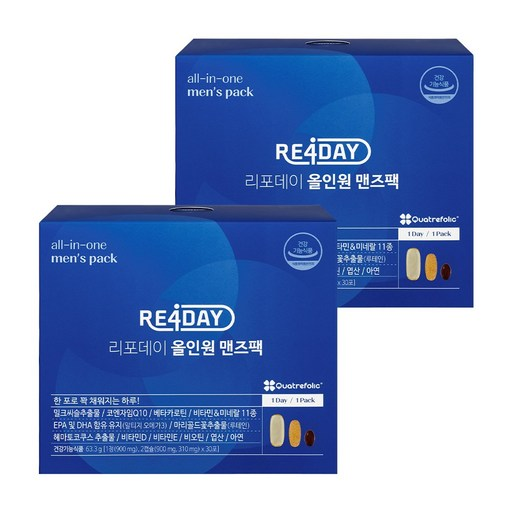
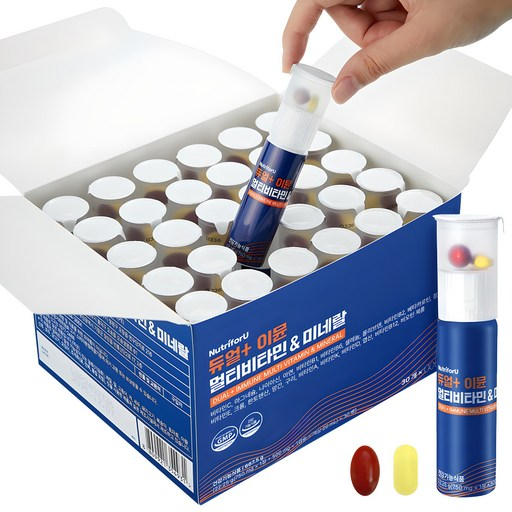
Add new landing page: 영양제

diff --git a/src/app/yeongyangje/page.tsx b/src/app/yeongyangje/page.tsx
@@ -1,24 +1,24 @@
 import { Metadata } from "next";
 
 export const metadata: Metadata = {
-  title: "리포데이 올인원 맨즈팩 22종 종합비타민 솔직 후기: 남성 활력, 이젠 한 팩으로!",
-  description: "리포데이 올인원 맨즈팩, 남성 활력을 위한 22종 종합 비타민 솔직 사용 후기! 바쁜 일상 속 간편하게 챙기는 건강 루틴, 과연 효과는? 직접 먹어보고 느낀 장단점과 구매 팁을 공유합니다.",
-  keywords: ["리포데이 올인원 맨즈팩", "남성 종합비타민", "22종 비타민", "남성 영양제", "활력 비타민", "리포데이", "쿠팡 로켓배송", "영양제"],
+  title: "솔직 후기: 뉴트리포유 듀얼 이뮨 멀티 비타민 미네랄, 한 달 복용해보니?",
+  description: "뉴트리포유 듀얼 이뮨 멀티 비타민 미네랄 한 달 복용 솔직 후기! 바쁜 일상 속 활력을 찾고 싶다면 주목하세요. 실제 사용 경험 바탕으로 장단점, 섭취 후 변화까지 자세히 알려드립니다.",
+  keywords: ["뉴트리포유", "듀얼 이뮨", "멀티 비타민", "미네랄", "종합 비타민", "영양제 추천", "피로회복", "면역력", "이중 기능성", "건강기능식품", "영양제"],
   robots: { index: true, follow: true },
   alternates: { canonical: "https://www.dmcmusic.co.kr/yeongyangje" },
   openGraph: {
     type: "article",
     locale: "ko_KR",
-    siteName: "리포데이 올인원 맨즈팩 남성용 22종 종합비타민, 2박스",
-    title: "리포데이 올인원 맨즈팩 22종 종합비타민 솔직 후기: 남성 활력, 이젠 한 팩으로!",
-    description: "리포데이 올인원 맨즈팩, 남성 활력을 위한 22종 종합 비타민 솔직 사용 후기! 바쁜 일상 속 간편하게 챙기는 건강 루틴, 과연 효과는? 직접 먹어보고 느낀 장단점과 구매 팁을 공유합니다.",
+    siteName: "뉴트리포유 듀얼 이뮨 멀티 비타민 미네랄",
+    title: "솔직 후기: 뉴트리포유 듀얼 이뮨 멀티 비타민 미네랄, 한 달 복용해보니?",
+    description: "뉴트리포유 듀얼 이뮨 멀티 비타민 미네랄 한 달 복용 솔직 후기! 바쁜 일상 속 활력을 찾고 싶다면 주목하세요. 실제 사용 경험 바탕으로 장단점, 섭취 후 변화까지 자세히 알려드립니다.",
     url: "https://www.dmcmusic.co.kr/yeongyangje",
     images: [{ url: "https://www.dmcmusic.co.kr/images/coupang/yeongyangje/product.jpg" }],
   },
   twitter: {
     card: "summary_large_image",
-    title: "리포데이 올인원 맨즈팩 22종 종합비타민 솔직 후기: 남성 활력, 이젠 한 팩으로!",
-    description: "리포데이 올인원 맨즈팩, 남성 활력을 위한 22종 종합 비타민 솔직 사용 후기! 바쁜 일상 속 간편하게 챙기는 건강 루틴, 과연 효과는? 직접 먹어보고 느낀 장단점과 구매 팁을 공유합니다.",
+    title: "솔직 후기: 뉴트리포유 듀얼 이뮨 멀티 비타민 미네랄, 한 달 복용해보니?",
+    description: "뉴트리포유 듀얼 이뮨 멀티 비타민 미네랄 한 달 복용 솔직 후기! 바쁜 일상 속 활력을 찾고 싶다면 주목하세요. 실제 사용 경험 바탕으로 장단점, 섭취 후 변화까지 자세히 알려드립니다.",
     images: ["https://www.dmcmusic.co.kr/images/coupang/yeongyangje/product.jpg"],
   },
 };
@@ -28,38 +28,38 @@ const jsonLd = {
   "@graph": [
     {
       "@type": "Product",
-      "name": "리포데이 올인원 맨즈팩 남성용 22종 종합비타민, 2박스",
+      "name": "뉴트리포유 듀얼 이뮨 멀티 비타민 미네랄",
       "image": "https://www.dmcmusic.co.kr/images/coupang/yeongyangje/product.jpg",
-      "description": "리포데이 올인원 맨즈팩, 남성 활력을 위한 22종 종합 비타민 솔직 사용 후기! 바쁜 일상 속 간편하게 챙기는 건강 루틴, 과연 효과는? 직접 먹어보고 느낀 장단점과 구매 팁을 공유합니다.",
+      "description": "뉴트리포유 듀얼 이뮨 멀티 비타민 미네랄 한 달 복용 솔직 후기! 바쁜 일상 속 활력을 찾고 싶다면 주목하세요. 실제 사용 경험 바탕으로 장단점, 섭취 후 변화까지 자세히 알려드립니다.",
       "offers": {
         "@type": "Offer",
-        "price": 163000,
+        "price": 51900,
         "priceCurrency": "KRW",
         "availability": "https://schema.org/InStock",
-        "url": "https://link.coupang.com/re/AFFSDP?lptag=AF4771282&pageKey=6825413636&itemId=28007293075&vendorItemId=87796065773&traceid=V0-153-fe11792aec72803b&clickBeacon=2f23c160-6ee3-11f1-aa8d-69c412651e7e%7E3&requestid=20260623180905244242219329&token=31850C%7CMIXED"
+        "url": "https://link.coupang.com/re/AFFSDP?lptag=AF4771282&pageKey=8205021216&itemId=23532442760&vendorItemId=90788386304&traceid=V0-153-70746f682c296f69&requestid=20260623181428377231172883&token=31850C%7CMIXED"
       }
     },
     {
       "@type": "Review",
       "itemReviewed": {
         "@type": "Product",
-        "name": "리포데이 올인원 맨즈팩 남성용 22종 종합비타민, 2박스"
+        "name": "뉴트리포유 듀얼 이뮨 멀티 비타민 미네랄"
       },
       "reviewRating": {
         "@type": "Rating",
-        "ratingValue": 4.5,
+        "ratingValue": 4.3,
         "bestRating": 5
       },
       "author": {
         "@type": "Person",
         "name": "실사용 리뷰어"
       },
-      "reviewBody": "리포데이 올인원 맨즈팩은 바쁜 현대 남성들에게 강력히 추천할 만한 제품입니다. 개인적으로 꾸준히 섭취하며 몸의 긍정적인 변화를 느꼈고, 무엇보다 간편함이 가장 큰 장점이라고 생각합니다. 가격대가 다소 있지만, 그만큼 다양한 영양소를 한 번에 챙길 수 있다는 점에서 충분히 투자할 가치가 있다고 봅니다. 여러분도 리포데이 맨즈팩으로 활기찬 하루를 시작해 보세요!"
+      "reviewBody": "뉴트리포유 듀얼 이뮨 멀티 비타민 미네랄은 저에게 꾸준히 섭취할 가치가 있는 영양제였습니다. 단숨에 몸이 바뀌는 마법 같은 효과는 아니지만, 꾸준한 섭취를 통해 전반적인 활력과 면역력 관리에 도움을 주어 만족스러웠어요. 건강한 생활 습관과 병행한다면 더욱 시너지를 낼 수 있을 거라 생각합니다. 재구매 의사 있습니다!"
     }
   ]
 };
 const pageStyles = ":root {\n  --bg: #faf8f4;\n  --card: #ffffff;\n  --text: #1c1917;\n  --muted: #78716c;\n  --accent: #e23744;\n  --accent-dark: #c62828;\n  --border: #e8dfd4;\n  --pro: #15803d;\n  --con: #b45309;\n}\n.coupang-review-root { box-sizing: border-box; }\n.coupang-review-root * { box-sizing: border-box; }\n.coupang-review-root {\n  font-family: \"Noto Sans KR\", sans-serif;\n  background: var(--bg);\n  color: var(--text);\n  line-height: 1.7;\n  padding-bottom: 5rem;\n  min-height: 100vh;\n}\n.partner-notice {\n  background: #fff8e6;\n  border-bottom: 1px solid #f0e0b0;\n  color: #6b5a2a;\n  font-size: 0.82rem;\n  text-align: center;\n  padding: 0.7rem 1rem;\n  line-height: 1.5;\n}\n.coupang-review-root .container { max-width: 760px; margin: 0 auto; padding: 1.25rem; }\n.coupang-review-root .hero {\n  background: var(--card);\n  border: 1px solid var(--border);\n  border-radius: 16px;\n  overflow: hidden;\n  box-shadow: 0 8px 30px rgba(0,0,0,.06);\n}\n.coupang-review-root .hero-img {\n  width: 100%;\n  aspect-ratio: 1;\n  object-fit: contain;\n  background: #fff;\n  display: block;\n}\n.coupang-review-root .hero-body { padding: 1.5rem; }\n.coupang-review-root .eyebrow {\n  font-size: .75rem;\n  letter-spacing: .08em;\n  text-transform: uppercase;\n  color: var(--muted);\n  margin-bottom: .5rem;\n}\n.coupang-review-root h1 {\n  font-size: 1.5rem;\n  line-height: 1.35;\n  margin: 0 0 .75rem;\n  font-weight: 700;\n}\n.coupang-review-root .price { font-size: 1.25rem; font-weight: 700; color: var(--accent); margin-bottom: .75rem; }\n.coupang-review-root .badges { display: flex; gap: .5rem; flex-wrap: wrap; margin-bottom: 1rem; }\n.coupang-review-root .badge {\n  font-size: .75rem;\n  padding: .25rem .6rem;\n  border-radius: 999px;\n  background: #fff5f5;\n  color: var(--accent);\n  border: 1px solid #fecaca;\n}\n.coupang-review-root .rating {\n  display: flex;\n  align-items: center;\n  gap: .5rem;\n  color: #f59e0b;\n  font-weight: 600;\n  margin-bottom: 1rem;\n}\n.coupang-review-root .lead { color: var(--muted); font-size: 1rem; }\n.coupang-review-root .cta {\n  display: inline-flex;\n  align-items: center;\n  justify-content: center;\n  width: 100%;\n  margin-top: 1rem;\n  padding: .95rem 1.25rem;\n  border-radius: 12px;\n  background: var(--accent);\n  color: #fff;\n  font-weight: 700;\n  text-decoration: none;\n  transition: background .2s;\n}\n.coupang-review-root .cta:hover { background: var(--accent-dark); }\n.coupang-review-root section {\n  margin-top: 1.5rem;\n  background: var(--card);\n  border: 1px solid var(--border);\n  border-radius: 16px;\n  padding: 1.5rem;\n}\n.coupang-review-root h2 { font-size: 1.15rem; margin: 0 0 1rem; }\n.coupang-review-root p { margin: 0 0 1rem; }\n.coupang-review-root p:last-child { margin-bottom: 0; }\n.coupang-review-root .pros-cons { display: grid; gap: 1rem; }\n@media (min-width: 640px) { .coupang-review-root .pros-cons { grid-template-columns: 1fr 1fr; } }\n.coupang-review-root .pros h3 { color: var(--pro); }\n.coupang-review-root .cons h3 { color: var(--con); }\n.coupang-review-root ul { margin: 0; padding-left: 1.1rem; }\n.coupang-review-root li { margin-bottom: .4rem; }\n.coupang-review-root .faq-item {\n  border-top: 1px solid var(--border);\n  padding: .9rem 0;\n}\n.coupang-review-root .faq-item summary {\n  cursor: pointer;\n  font-weight: 600;\n  list-style: none;\n}\n.coupang-review-root .faq-item summary::-webkit-details-marker { display: none; }\n.coupang-review-root .float-bar {\n  position: fixed;\n  left: 0; right: 0; bottom: 0;\n  background: rgba(255,255,255,.96);\n  border-top: 1px solid var(--border);\n  backdrop-filter: blur(8px);\n  padding: .75rem 1rem calc(.75rem + env(safe-area-inset-bottom));\n  z-index: 50;\n}\n.coupang-review-root .float-bar a {\n  display: block;\n  text-align: center;\n  background: var(--accent);\n  color: #fff;\n  text-decoration: none;\n  font-weight: 700;\n  padding: .9rem;\n  border-radius: 12px;\n}";
-const pageHtml = "<div class=\"coupang-review-root\">\n  <p class=\"partner-notice\">\n    \uc774 \ud3ec\uc2a4\ud305\uc740 \ucfe0\ud321 \ud30c\ud2b8\ub108\uc2a4 \ud65c\ub3d9\uc758 \uc77c\ud658\uc73c\ub85c, \uc774\uc5d0 \ub530\ub978 \uc77c\uc815\uc561\uc758 \uc218\uc218\ub8cc\ub97c \uc81c\uacf5\ubc1b\uc2b5\ub2c8\ub2e4.\n  </p>\n  <div class=\"container\">\n    <article class=\"hero\">\n      <img class=\"hero-img\" src=\"/images/coupang/yeongyangje/product.jpg\" alt=\"\ub9ac\ud3ec\ub370\uc774 \uc62c\uc778\uc6d0 \ub9e8\uc988\ud329 \ub0a8\uc131\uc6a9 22\uc885 \uc885\ud569\ube44\ud0c0\ubbfc, 2\ubc15\uc2a4\" loading=\"eager\" />\n      <div class=\"hero-body\">\n        <p class=\"eyebrow\">\uc2e4\uc0ac\uc6a9 \ud6c4\uae30 \u00b7 2026</p>\n        <h1>\ub9ac\ud3ec\ub370\uc774 \uc62c\uc778\uc6d0 \ub9e8\uc988\ud329 \ub0a8\uc131\uc6a9 22\uc885 \uc885\ud569\ube44\ud0c0\ubbfc, 2\ubc15\uc2a4 \uc194\uc9c1 \uc0ac\uc6a9 \ud6c4\uae30</h1>\n        <p class=\"price\">163,000\uc6d0</p>\n        <div class=\"badges\"><span class=\"badge\">\ub85c\ucf13\ubc30\uc1a1</span></div>\n        <div class=\"rating\"><span>\u2605\u2605\u2605\u2605\u2606</span><span>4.5</span><span>\ubc14\uc05c \ub0a8\uc131\ub4e4\uc744 \uc704\ud55c \uac04\ud3b8\ud558\uace0 \ud6a8\uacfc\uc801\uc778 \uc62c\uc778\uc6d0 \uc885\ud569\ube44\ud0c0\ubbfc!</span></div>\n        <p class=\"lead\">\ubc14\uc05c \ud604\ub300 \ub0a8\uc131\ub4e4\uc5d0\uac8c &#x27;\uc601\uc591\uc81c \ucc59\uaca8 \uba39\uae30&#x27;\ub780 \ub610 \ud558\ub098\uc758 \uc219\uc81c \uac19\uc8e0? \uc800 \uc5ed\uc2dc \uadf8\ub7ac\uc2b5\ub2c8\ub2e4. \uadf8\ub7ec\ub2e4 \uc6b0\uc5f0\ud788 &#x27;\ub9ac\ud3ec\ub370\uc774 \uc62c\uc778\uc6d0 \ub9e8\uc988\ud329&#x27;\uc744 \uc811\ud558\uac8c \ub418\uc5c8\uace0, \uc57d \ud55c \ub2ec\uac04 \uafb8\uc900\ud788 \uc12d\ucde8\ud558\uba70 \ubab8\uc758 \ubcc0\ud654\ub97c \uc9c1\uc811 \uacbd\ud5d8\ud574 \ubcf4\uc558\uc2b5\ub2c8\ub2e4. \uacfc\uc5f0 \uc774 \ud55c \ud329\uc774 \uc815\ub9d0 \ub0a8\uc131\uc5d0\uac8c \ud544\uc694\ud55c \ubaa8\ub4e0 \uac83\uc744 \ub2f4\uace0 \uc788\uc744\uae4c\uc694?</p>\n        <a class=\"cta\" href=\"https://link.coupang.com/re/AFFSDP?lptag=AF4771282&amp;pageKey=6825413636&amp;itemId=28007293075&amp;vendorItemId=87796065773&amp;traceid=V0-153-fe11792aec72803b&amp;clickBeacon=2f23c160-6ee3-11f1-aa8d-69c412651e7e%7E3&amp;requestid=20260623180905244242219329&amp;token=31850C%7CMIXED\" target=\"_blank\" rel=\"noopener noreferrer sponsored\">\ucfe0\ud321\uc5d0\uc11c \ucd5c\uc800\uac00 \ud655\uc778\ud558\uae30</a>\n      </div>\n    </article>\n    <section><h2>\uc0c1\ud488 \uc18c\uac1c</h2><p>\ub298 \ud53c\uace4\ud558\uace0 \ubb34\uae30\ub825\ud568\uc744 \ub290\ub07c\ub358 \ucc28\uc5d0, \uc8fc\ubcc0\uc5d0\uc11c \ub0a8\uc131 \uc885\ud569\ube44\ud0c0\ubbfc\uc744 \ucd94\ucc9c\ud558\ub354\uad70\uc694. \uc5ec\ub7ec \uc81c\ud488\uc744 \ucc3e\uc544\ubcf4\ub2e4\uac00 &#x27;\ub9ac\ud3ec\ub370\uc774 \uc62c\uc778\uc6d0 \ub9e8\uc988\ud329&#x27;\uc774 22\uac00\uc9c0 \uc601\uc591\uc18c\ub97c \ud55c \ubc88\uc5d0 \uc12d\ucde8\ud560 \uc218 \uc788\ub2e4\ub294 \uc810\uacfc \uac04\ud3b8\ud55c \uac1c\ubcc4 \ud3ec\uc7a5\uc774\ub77c\ub294 \uc810\uc5d0 \ub04c\ub824 \uad6c\ub9e4\ud558\uac8c \ub418\uc5c8\uc2b5\ub2c8\ub2e4. \ud2b9\ud788 \ucfe0\ud321 \ub85c\ucf13\ubc30\uc1a1\uc73c\ub85c \ub2e4\uc74c \ub0a0 \ubc14\ub85c \ubc1b\uc744 \uc218 \uc788\uc5c8\ub358 \uc810\ub3c4 \uc88b\uc558\uace0\uc694. \uc9c0\uae08\ubd80\ud130 \uc81c\uac00 \uc9c1\uc811 \uc0ac\uc6a9\ud574 \ubcf8 \ub9ac\ud3ec\ub370\uc774 \ub9e8\uc988\ud329\uc758 \uc194\uc9c1\ud55c \ud6c4\uae30\ub97c \uacf5\uc720\ud574 \ub4dc\ub9b4\uac8c\uc694.</p></section>\n    <section><h2>\uc9c1\uc811 \uc368 \ubcf8 \uc0ac\uc6a9 \uacbd\ud5d8</h2><p>\uc800\ub294 \ub9e4\uc77c \uc544\uce68 \uc2dd\uc0ac \ud6c4 \ub9ac\ud3ec\ub370\uc774 \uc62c\uc778\uc6d0 \ub9e8\uc988\ud329 \ud55c \ud3ec\ub97c \uc12d\ucde8\ud588\uc2b5\ub2c8\ub2e4. \ucc98\uc74c \uba70\uce60\uc740 \ud070 \ubcc0\ud654\ub97c \ub290\ub07c\uc9c0 \ubabb\ud588\uc9c0\ub9cc, 2\uc8fc \uc815\ub3c4 \uc9c0\ub098\ub2c8 \uc544\uce68\uc5d0 \uc77c\uc5b4\ub098\ub294 \uac83\uc774 \uc870\uae08 \ub354 \uc218\uc6d4\ud574\uc9c0\uace0, \uc624\ud6c4\uc5d0 \ucc3e\uc544\uc624\ub358 \uadf9\uc2ec\ud55c \ud53c\ub85c\uac10\uc774 \uc904\uc5b4\ub4dc\ub294 \uac83\uc744 \uccb4\uac10\ud588\uc2b5\ub2c8\ub2e4. \ud2b9\ud788 \uc804\uc5d0\ub294 \ub530\ub85c\ub530\ub85c \ucc59\uaca8 \uba39\ub358 \ube44\ud0c0\ubbfcD, \uc544\uc5f0, \ub9c8\uadf8\ub124\uc298 \ub4f1\uc744 \ud55c \ubc88\uc5d0 \ud574\uacb0\ud560 \uc218 \uc788\ub2e4\ub294 \uc810\uc774 \uac00\uc7a5 \ud070 \uc7a5\uc810\uc73c\ub85c \ub2e4\uac00\uc654\uc2b5\ub2c8\ub2e4. \ud68c\uc2dd\uc774\ub098 \uc57c\uadfc\uc73c\ub85c \ubd88\uaddc\uce59\ud55c \uc0dd\ud65c\uc744 \ud560 \ub54c\ub3c4 \ube7c\uba39\uc9c0 \uc54a\uace0 \ucc59\uae38 \uc218 \uc788\uc5b4\uc11c \uc88b\uc558\uc5b4\uc694. \ub2e4\ub9cc, \uc57d\uc744 \ud55c \ubc88\uc5d0 \uc5ec\ub7ec \uc54c \uba39\ub294 \uac83\uc5d0 \uc775\uc219\ud558\uc9c0 \uc54a\uc740 \ubd84\ub4e4\uc740 \ucc98\uc74c\uc5d0\ub294 \uc870\uae08 \ubd88\ud3b8\ud560 \uc218\ub3c4 \uc788\uc744 \uac83 \uac19\uc544\uc694.</p></section>\n    <section class=\"pros-cons\">\n      <div class=\"pros\"><h3>\ud83d\udc4d \uc7a5\uc810</h3><ul><li>\uac1c\ubcc4 \ud3ec\uc7a5\uc774\ub77c \ud734\ub300\uc640 \uc12d\ucde8\uac00 \uc815\ub9d0 \uac04\ud3b8\ud574\uc694. \ub9e4\uc77c \uc544\uce68 \ud558\ub098\uc529 \ucc59\uae30\uae30 \uc88b\uc2b5\ub2c8\ub2e4.</li>\n<li>22\uac00\uc9c0 \ub2e4\uc591\ud55c \uc601\uc591\uc18c\ub97c \ud55c \ubc88\uc5d0 \uc12d\ucde8\ud560 \uc218 \uc788\uc5b4 \uc5ec\ub7ec \uc54c \uba39\uc744 \ud544\uc694\uac00 \uc5c6\uc5b4\uc694.</li>\n<li>\uafb8\uc900\ud788 \uba39\uc73c\ub2c8 \ud655\uc2e4\ud788 \ud65c\ub825\uc774 \uc0dd\uae30\uace0 \ub35c \ud53c\uace4\ud55c \ub290\ub08c\uc774 \ub4e4\uc5c8\uc2b5\ub2c8\ub2e4.</li>\n<li>\ubaa9 \ub118\uae40\uc774 \uc5b4\ub835\uc9c0 \uc54a\uc740 \uc801\ub2f9\ud55c \ud06c\uae30\uc758 \uc54c\uc57d\ub4e4\uc774\ub77c \ubd80\ub2f4\uc774 \uc5c6\uc5b4\uc694.</li></ul></div>\n      <div class=\"cons\"><h3>\ud83d\udc4e \uc544\uc26c\uc6b4 \uc810</h3><ul><li>\ud55c \ud329\uc5d0 \uc5ec\ub7ec \uc54c\uc57d\uc774 \ub4e4\uc5b4\uc788\uc5b4, \uc54c\uc57d \uc12d\ucde8\ub97c \uc2eb\uc5b4\ud558\ub294 \ubd84\ub4e4\uc5d0\uac8c\ub294 \ubd80\ub2f4\uc2a4\ub7ec\uc6b8 \uc218 \uc788\uc2b5\ub2c8\ub2e4.</li>\n<li>\uac00\uaca9\ub300\uac00 \uc800\ub834\ud55c \ud3b8\uc740 \uc544\ub2c8\ub77c, \uafb8\uc900\ud788 \uad6c\ub9e4\ud558\uae30\uc5d0\ub294 \ub2e4\uc18c \ubd80\ub2f4\uc774 \ub420 \uc218 \uc788\uc5b4\uc694. (2\ubc15\uc2a4 163,000\uc6d0)</li></ul></div>\n    </section>\n    <section><h2>\uc774\ub7f0 \ubd84\uaed8 \ucd94\ucc9c</h2><p>\ubc14\uc05c \uc77c\uc0c1 \uc18d\uc5d0\uc11c \uc5ec\ub7ec \uac00\uc9c0 \uc601\uc591\uc81c\ub97c \uc77c\uc77c\uc774 \ucc59\uaca8 \uba39\uae30 \ud798\ub4e0 \ub0a8\uc131\ubd84\ub4e4. \ub9cc\uc131 \ud53c\ub85c\uc640 \ubb34\uae30\ub825\ud568\uc73c\ub85c \ud65c\ub825\uc774 \ud544\uc694\ud55c \ub0a8\uc131\ubd84\ub4e4. \uac04\ud3b8\ud558\uac8c \ud544\uc218 \uc601\uc591\uc18c\ub97c \ud55c \ubc88\uc5d0 \uc12d\ucde8\ud558\uace0 \uc2f6\uc740 \ubd84\ub4e4.</p></section>\n    <section><h2>\ucd1d\ud3c9</h2><p>\ub9ac\ud3ec\ub370\uc774 \uc62c\uc778\uc6d0 \ub9e8\uc988\ud329\uc740 \ubc14\uc05c \ud604\ub300 \ub0a8\uc131\ub4e4\uc5d0\uac8c \uac15\ub825\ud788 \ucd94\ucc9c\ud560 \ub9cc\ud55c \uc81c\ud488\uc785\ub2c8\ub2e4. \uac1c\uc778\uc801\uc73c\ub85c \uafb8\uc900\ud788 \uc12d\ucde8\ud558\uba70 \ubab8\uc758 \uae0d\uc815\uc801\uc778 \ubcc0\ud654\ub97c \ub290\uaf08\uace0, \ubb34\uc5c7\ubcf4\ub2e4 \uac04\ud3b8\ud568\uc774 \uac00\uc7a5 \ud070 \uc7a5\uc810\uc774\ub77c\uace0 \uc0dd\uac01\ud569\ub2c8\ub2e4. \uac00\uaca9\ub300\uac00 \ub2e4\uc18c \uc788\uc9c0\ub9cc, \uadf8\ub9cc\ud07c \ub2e4\uc591\ud55c \uc601\uc591\uc18c\ub97c \ud55c \ubc88\uc5d0 \ucc59\uae38 \uc218 \uc788\ub2e4\ub294 \uc810\uc5d0\uc11c \ucda9\ubd84\ud788 \ud22c\uc790\ud560 \uac00\uce58\uac00 \uc788\ub2e4\uace0 \ubd05\ub2c8\ub2e4. \uc5ec\ub7ec\ubd84\ub3c4 \ub9ac\ud3ec\ub370\uc774 \ub9e8\uc988\ud329\uc73c\ub85c \ud65c\uae30\ucc2c \ud558\ub8e8\ub97c \uc2dc\uc791\ud574 \ubcf4\uc138\uc694!</p>\n      <a class=\"cta\" href=\"https://link.coupang.com/re/AFFSDP?lptag=AF4771282&amp;pageKey=6825413636&amp;itemId=28007293075&amp;vendorItemId=87796065773&amp;traceid=V0-153-fe11792aec72803b&amp;clickBeacon=2f23c160-6ee3-11f1-aa8d-69c412651e7e%7E3&amp;requestid=20260623180905244242219329&amp;token=31850C%7CMIXED\" target=\"_blank\" rel=\"noopener noreferrer sponsored\">\uc9c0\uae08 \ucfe0\ud321\uc5d0\uc11c \uad6c\ub9e4\ud558\uae30</a>\n    </section>\n    <section><h2>\uc790\uc8fc \ubb3b\ub294 \uc9c8\ubb38</h2><details class=\"faq-item\">\n  <summary>\uc5b8\uc81c \uc12d\ucde8\ud558\ub294 \uac83\uc774 \uac00\uc7a5 \uc88b\ub098\uc694?</summary>\n  <p>\uc2dd\ud6c4\uc5d0 \uc12d\ucde8\ud558\ub294 \uac83\uc774 \uc601\uc591\uc18c \ud761\uc218\uc5d0 \ub3c4\uc6c0\uc774 \ub418\uba70, \uc704\uc7a5 \ubd80\ub2f4\uc744 \uc904\uc77c \uc218 \uc788\uc2b5\ub2c8\ub2e4. \uc800\ub294 \uc8fc\ub85c \uc544\uce68 \uc2dd\uc0ac \ud6c4\uc5d0 \uc12d\ucde8\ud588\uc2b5\ub2c8\ub2e4.</p>\n</details>\n<details class=\"faq-item\">\n  <summary>\uc54c\uc57d \ud06c\uae30\uac00 \ud070\uac00\uc694? \ubaa9 \ub118\uae40\uc740 \uc5b4\ub5a4\uac00\uc694?</summary>\n  <p>\ud55c \ud329\uc5d0 \ub4e4\uc5b4\uc788\ub294 \uc54c\uc57d\ub4e4\uc740 \ud06c\uae30\uac00 \ub2e4\uc591\ud558\uc9c0\ub9cc, \ub300\ubd80\ubd84 \ubaa9 \ub118\uae40\uc5d0 \ubd80\ub2f4 \uc5c6\ub294 \uc801\ub2f9\ud55c \ud06c\uae30\uc600\uc2b5\ub2c8\ub2e4. \ubb3c\uacfc \ud568\uaed8 \uc12d\ucde8\ud558\uba74 \ud070 \uc5b4\ub824\uc6c0\uc740 \uc5c6\uc744 \uac70\uc608\uc694.</p>\n</details>\n<details class=\"faq-item\">\n  <summary>\uafb8\uc900\ud788 \uba39\uc5b4\uc57c \ud6a8\uacfc\ub97c \ubcfc \uc218 \uc788\ub098\uc694?</summary>\n  <p>\ub124, \uc601\uc591\uc81c\ub294 \ub2e8\uae30\uc801\uc778 \ud6a8\uacfc\ubcf4\ub2e4\ub294 \uafb8\uc900\ud788 \uc12d\ucde8\ud588\uc744 \ub54c \ubab8\uc758 \ubcc0\ud654\ub97c \uccb4\uac10\ud560 \uc218 \uc788\uc2b5\ub2c8\ub2e4. \ucd5c\uc18c \ud55c \ub2ec \uc774\uc0c1 \uafb8\uc900\ud788 \ub4dc\uc154\ubcf4\uc2dc\ub294 \uac83\uc744 \uad8c\uc7a5\ud569\ub2c8\ub2e4.</p>\n</details></section>\n  </div>\n  <div class=\"float-bar\">\n    <a href=\"https://link.coupang.com/re/AFFSDP?lptag=AF4771282&amp;pageKey=6825413636&amp;itemId=28007293075&amp;vendorItemId=87796065773&amp;traceid=V0-153-fe11792aec72803b&amp;clickBeacon=2f23c160-6ee3-11f1-aa8d-69c412651e7e%7E3&amp;requestid=20260623180905244242219329&amp;token=31850C%7CMIXED\" target=\"_blank\" rel=\"noopener noreferrer sponsored\">\ucfe0\ud321\uc5d0\uc11c \uad6c\ub9e4\ud558\uae30</a>\n  </div>\n</div>";
+const pageHtml = "<div class=\"coupang-review-root\">\n  <p class=\"partner-notice\">\n    \uc774 \ud3ec\uc2a4\ud305\uc740 \ucfe0\ud321 \ud30c\ud2b8\ub108\uc2a4 \ud65c\ub3d9\uc758 \uc77c\ud658\uc73c\ub85c, \uc774\uc5d0 \ub530\ub978 \uc77c\uc815\uc561\uc758 \uc218\uc218\ub8cc\ub97c \uc81c\uacf5\ubc1b\uc2b5\ub2c8\ub2e4.\n  </p>\n  <div class=\"container\">\n    <article class=\"hero\">\n      <img class=\"hero-img\" src=\"/images/coupang/yeongyangje/product.jpg\" alt=\"\ub274\ud2b8\ub9ac\ud3ec\uc720 \ub4c0\uc5bc \uc774\ubba8 \uba40\ud2f0 \ube44\ud0c0\ubbfc \ubbf8\ub124\ub784\" loading=\"eager\" />\n      <div class=\"hero-body\">\n        <p class=\"eyebrow\">\uc2e4\uc0ac\uc6a9 \ud6c4\uae30 \u00b7 2026</p>\n        <h1>\ub274\ud2b8\ub9ac\ud3ec\uc720 \ub4c0\uc5bc \uc774\ubba8 \uba40\ud2f0 \ube44\ud0c0\ubbfc \ubbf8\ub124\ub784: \ubc14\uc05c \uc77c\uc0c1 \uc18d \ud65c\ub825 \ucda9\uc804 \uc194\uc9c1 \ud6c4\uae30</h1>\n        <p class=\"price\">51,900\uc6d0</p>\n        <div class=\"badges\"><span class=\"badge\">\ub85c\ucf13\ubc30\uc1a1</span></div>\n        <div class=\"rating\"><span>\u2605\u2605\u2605\u2605\u2606</span><span>4.3</span><span>\uafb8\uc900\ud788 \uc12d\ucde8\ud558\uba74 \ud65c\ub825\uacfc \uba74\uc5ed\ub825 \uad00\ub9ac\uc5d0 \ub3c4\uc6c0\uc744 \uc8fc\ub294 \ubbff\uc74c\uc9c1\ud55c \uba40\ud2f0 \ube44\ud0c0\ubbfc!</span></div>\n        <p class=\"lead\">\uc548\ub155\ud558\uc138\uc694, \uac74\uac15\ud55c \ub77c\uc774\ud504\uc2a4\ud0c0\uc77c\uc744 \ucd94\uad6c\ud558\ub294 \ube14\ub85c\uac70\uc785\ub2c8\ub2e4. \uc624\ub298\uc740 \uc81c\uac00 \ud55c \ub2ec \ub118\uac8c \uafb8\uc900\ud788 \uc12d\ucde8\ud574 \ubcf8 &#x27;\ub274\ud2b8\ub9ac\ud3ec\uc720 \ub4c0\uc5bc \uc774\ubba8 \uba40\ud2f0 \ube44\ud0c0\ubbfc \ubbf8\ub124\ub784&#x27;\uc5d0 \ub300\ud55c \uc194\uc9c1\ud55c \uacbd\ud5d8\ub2f4\uc744 \ub4e4\ub824\ub4dc\ub9ac\ub824\uace0 \ud574\uc694. \ub298 \ud53c\uace4\ud558\uace0 \uae30\uc6b4 \uc5c6\ub2e4\ub294 \ub9d0\uc744 \uc785\uc5d0 \ub2ec\uace0 \uc0b4\uc558\ub294\ub370, \uacfc\uc5f0 \uc774 \uc601\uc591\uc81c\uac00 \uc800\uc5d0\uac8c \uc5b4\ub5a4 \ubcc0\ud654\ub97c \uac00\uc838\ub2e4\uc8fc\uc5c8\uc744\uae4c\uc694?</p>\n        <a class=\"cta\" href=\"https://link.coupang.com/re/AFFSDP?lptag=AF4771282&amp;pageKey=8205021216&amp;itemId=23532442760&amp;vendorItemId=90788386304&amp;traceid=V0-153-70746f682c296f69&amp;requestid=20260623181428377231172883&amp;token=31850C%7CMIXED\" target=\"_blank\" rel=\"noopener noreferrer sponsored\">\ucfe0\ud321\uc5d0\uc11c \ucd5c\uc800\uac00 \ud655\uc778\ud558\uae30</a>\n      </div>\n    </article>\n    <section><h2>\uc0c1\ud488 \uc18c\uac1c</h2><p>\ubc14\uc05c \uc9c1\uc7a5 \uc0dd\ud65c\uacfc \uc721\uc544\ub97c \ubcd1\ud589\ud558\uba74\uc11c \uccb4\ub825\uc801\uc73c\ub85c \ub9ce\uc774 \uc9c0\uccd0\uc788\uc5c8\uc5b4\uc694. \uc544\uce68\uc5d0 \ub208 \ub728\ub294 \uac83\ub3c4 \ud798\ub4e4\uace0, \uc624\ud6c4\ub9cc \ub418\uba74 \ucd95 \ucc98\uc9c0\ub294 \ub290\ub08c\uc774\ub784\uae4c\uc694. \uadf8\ub798\uc11c \uc5ec\ub7ec \uc601\uc591\uc81c\ub97c \ucc3e\uc544\ubcf4\ub2e4\uac00, &#x27;\ub4c0\uc5bc \uc774\ubba8&#x27;\uc774\ub77c\ub294 \ubb38\uad6c\uc5d0 \ub04c\ub824 \ub274\ud2b8\ub9ac\ud3ec\uc720 \uc81c\ud488\uc744 \uc120\ud0dd\ud558\uac8c \ub418\uc5c8\uc2b5\ub2c8\ub2e4. \uba40\ud2f0 \ube44\ud0c0\ubbfc\uacfc \ubbf8\ub124\ub784\uc744 \ud55c \ubc88\uc5d0 \ucc59\uae38 \uc218 \uc788\ub2e4\ub294 \uc810\ub3c4 \ub9c8\uc74c\uc5d0 \ub4e4\uc5c8\uc8e0. \ucfe0\ud321 \ub85c\ucf13\ubc30\uc1a1\uc73c\ub85c \ube60\ub974\uac8c \ubc1b\uc544\ubcfc \uc218 \uc788\uc5b4\uc11c \uc88b\uc558\uc2b5\ub2c8\ub2e4.</p></section>\n    <section><h2>\uc9c1\uc811 \uc368 \ubcf8 \uc0ac\uc6a9 \uacbd\ud5d8</h2><p>\ub9e4\uc77c \uc544\uce68 \uc2dd\uc0ac \ud6c4 2\uc815\uc529 \uafb8\uc900\ud788 \uc12d\ucde8\ud588\uc2b5\ub2c8\ub2e4. \ucc98\uc74c \uba70\uce60\uac04\uc740 \ud070 \ubcc0\ud654\ub97c \ub290\ub07c\uc9c0 \ubabb\ud588\uc9c0\ub9cc, 2\uc8fc \uc815\ub3c4 \uc9c0\ub098\uba74\uc11c\ubd80\ud130 \ubbf8\ubb18\ud55c \ucc28\uc774\ub97c \ub290\ub07c\uae30 \uc2dc\uc791\ud588\uc5b4\uc694. \ud2b9\ud788 \uc544\uce68\uc5d0 \uc77c\uc5b4\ub0a0 \ub54c \ubab8\uc774 \uc880 \ub354 \uac00\ubcbc\uc6cc\uc9c4 \ub290\ub08c\uc774\uc5c8\uace0, \uc624\ud6c4\uc5d0 \ucc3e\uc544\uc624\ub358 \uadf9\uc2ec\ud55c \ud53c\ub85c\uac10\uc774 \uc870\uae08 \ub35c\ud574\uc84c\uc2b5\ub2c8\ub2e4. \ubb3c\ub860 \uc601\uc591\uc81c \ud558\ub098\ub9cc\uc73c\ub85c \ubaa8\ub4e0 \ud53c\ub85c\uac00 \uc0ac\ub77c\uc9c0\ub294 \uac74 \uc544\ub2c8\uc9c0\ub9cc, \uc804\ubc18\uc801\uc778 \ucee8\ub514\uc158 \uad00\ub9ac\uc5d0 \ud655\uc2e4\ud788 \ub3c4\uc6c0\uc774 \ub41c\ub2e4\ub294 \uc778\uc0c1\uc744 \ubc1b\uc558\uc2b5\ub2c8\ub2e4. \uafb8\uc900\ud568\uc774 \uc911\uc694\ud558\ub2e4\uace0 \uc0dd\uac01\ud574\uc694.</p></section>\n    <section class=\"pros-cons\">\n      <div class=\"pros\"><h3>\ud83d\udc4d \uc7a5\uc810</h3><ul><li>\uc774\uc911 \uae30\ub2a5\uc131 \uc124\uacc4: \uba74\uc5ed\ub825 \uc99d\uc9c4\uacfc \ud65c\ub825 \ucda9\uc804\uc744 \ub3d9\uc2dc\uc5d0 \ub3d5\ub294 \uc810\uc774 \uc88b\uc558\uc5b4\uc694.</li>\n<li>\ub2e4\uc591\ud55c \ube44\ud0c0\ubbfc\uacfc \ubbf8\ub124\ub784 \ud568\uc720: \ubd80\uc871\ud558\uae30 \uc26c\uc6b4 \uc601\uc591\uc18c\ub97c \ud55c \ubc88\uc5d0 \ucc59\uae38 \uc218 \uc788\uc5b4 \ud3b8\ub9ac\ud569\ub2c8\ub2e4.</li>\n<li>\uc815\uc81c \ud06c\uae30\uac00 \uc801\ub2f9\ud558\uc5ec \ubaa9 \ub118\uae40\uc774 \ud3b8\uc548\ud588\uc2b5\ub2c8\ub2e4.</li>\n<li>\uafb8\uc900\ud788 \uc12d\ucde8\ud558\ub2c8 \uc544\uce68\uc5d0 \uc77c\uc5b4\ub098\ub294 \uac83\uc774 \uc870\uae08 \ub354 \uc218\uc6d4\ud574\uc9c0\uace0 \ud65c\ub825\uc774 \uc0dd\uae34 \ub290\ub08c\uc774\uc5d0\uc694.</li></ul></div>\n      <div class=\"cons\"><h3>\ud83d\udc4e \uc544\uc26c\uc6b4 \uc810</h3><ul><li>\uac00\uaca9\ub300\uac00 \ub2e4\uc18c \ub192\uc740 \ud3b8\uc774\ub77c \uafb8\uc900\ud788 \uad6c\ub9e4\ud558\uae30\uc5d0\ub294 \ubd80\ub2f4\uc774 \ub420 \uc218 \uc788\uc2b5\ub2c8\ub2e4.</li>\n<li>\uc12d\ucde8 \ud6c4 \ub4dc\ub77c\ub9c8\ud2f1\ud55c \ubcc0\ud654\ubcf4\ub2e4\ub294 \uc11c\uc11c\ud788 \ucee8\ub514\uc158\uc774 \uac1c\uc120\ub418\ub294 \ub290\ub08c\uc774\ub77c, \uc989\uac01\uc801\uc778 \ud6a8\uacfc\ub97c \uae30\ub300\ud558\ub294 \ubd84\ub4e4\uc5d0\uac8c\ub294 \uc544\uc26c\uc6b8 \uc218 \uc788\uc5b4\uc694.</li></ul></div>\n    </section>\n    <section><h2>\uc774\ub7f0 \ubd84\uaed8 \ucd94\ucc9c</h2><p>\ubc14\uc05c \uc77c\uc0c1\uc73c\ub85c \uc778\ud574 \uc601\uc591 \ubd88\uade0\ud615\uc774 \uac71\uc815\ub418\ub294 \ubd84, \uba74\uc5ed\ub825 \uc800\ud558\uc640 \ub9cc\uc131 \ud53c\ub85c\ub85c \uace0\ubbfc\ud558\ub294 \ubd84, \uc5ec\ub7ec \uc601\uc591\uc81c\ub97c \ucc59\uaca8 \uba39\uae30 \ubc88\uac70\ub85c\uc6b4 \ubd84\uaed8 \ucd94\ucc9c\ud569\ub2c8\ub2e4. \ud2b9\ud788 \ud65c\uae30\ucc2c \ud558\ub8e8\ub97c \ubcf4\ub0b4\uace0 \uc2f6\uc740 \uc9c1\uc7a5\uc778\uc774\ub098 \uc8fc\ubd80\uc5d0\uac8c \uc88b\uc740 \uc120\ud0dd\uc774 \ub420 \uac83 \uac19\uc2b5\ub2c8\ub2e4.</p></section>\n    <section><h2>\ucd1d\ud3c9</h2><p>\ub274\ud2b8\ub9ac\ud3ec\uc720 \ub4c0\uc5bc \uc774\ubba8 \uba40\ud2f0 \ube44\ud0c0\ubbfc \ubbf8\ub124\ub784\uc740 \uc800\uc5d0\uac8c \uafb8\uc900\ud788 \uc12d\ucde8\ud560 \uac00\uce58\uac00 \uc788\ub294 \uc601\uc591\uc81c\uc600\uc2b5\ub2c8\ub2e4. \ub2e8\uc228\uc5d0 \ubab8\uc774 \ubc14\ub00c\ub294 \ub9c8\ubc95 \uac19\uc740 \ud6a8\uacfc\ub294 \uc544\ub2c8\uc9c0\ub9cc, \uafb8\uc900\ud55c \uc12d\ucde8\ub97c \ud1b5\ud574 \uc804\ubc18\uc801\uc778 \ud65c\ub825\uacfc \uba74\uc5ed\ub825 \uad00\ub9ac\uc5d0 \ub3c4\uc6c0\uc744 \uc8fc\uc5b4 \ub9cc\uc871\uc2a4\ub7ec\uc6e0\uc5b4\uc694. \uac74\uac15\ud55c \uc0dd\ud65c \uc2b5\uad00\uacfc \ubcd1\ud589\ud55c\ub2e4\uba74 \ub354\uc6b1 \uc2dc\ub108\uc9c0\ub97c \ub0bc \uc218 \uc788\uc744 \uac70\ub77c \uc0dd\uac01\ud569\ub2c8\ub2e4. \uc7ac\uad6c\ub9e4 \uc758\uc0ac \uc788\uc2b5\ub2c8\ub2e4!</p>\n      <a class=\"cta\" href=\"https://link.coupang.com/re/AFFSDP?lptag=AF4771282&amp;pageKey=8205021216&amp;itemId=23532442760&amp;vendorItemId=90788386304&amp;traceid=V0-153-70746f682c296f69&amp;requestid=20260623181428377231172883&amp;token=31850C%7CMIXED\" target=\"_blank\" rel=\"noopener noreferrer sponsored\">\uc9c0\uae08 \ucfe0\ud321\uc5d0\uc11c \uad6c\ub9e4\ud558\uae30</a>\n    </section>\n    <section><h2>\uc790\uc8fc \ubb3b\ub294 \uc9c8\ubb38</h2><details class=\"faq-item\">\n  <summary>\ud558\ub8e8 \uc12d\ucde8\ub7c9\uc740 \uc5b4\ub5bb\uac8c \ub418\ub098\uc694?</summary>\n  <p>\ud558\ub8e8 1\ud68c, 2\uc815\uc744 \ubb3c\uacfc \ud568\uaed8 \uc12d\ucde8\ud558\uc2dc\uba74 \ub429\ub2c8\ub2e4. \uc800\ub294 \uc8fc\ub85c \uc544\uce68 \uc2dd\uc0ac \ud6c4\uc5d0 \uc12d\ucde8\ud588\uc5b4\uc694.</p>\n</details>\n<details class=\"faq-item\">\n  <summary>\uc5b4\ub5a4 \uc131\ubd84\ub4e4\uc774 \ub4e4\uc5b4\uc788\ub098\uc694?</summary>\n  <p>\ube44\ud0c0\ubbfc 13\uc885\uacfc \ubbf8\ub124\ub784 9\uc885\uc774 \uc8fc \uc131\ubd84\uc73c\ub85c \ud568\uc720\ub418\uc5b4 \uc788\uc2b5\ub2c8\ub2e4. \ud2b9\ud788 \uc544\uc5f0\uacfc \uc140\ub808\ub284\uc740 \uba74\uc5ed \uae30\ub2a5\uc5d0 \ub3c4\uc6c0\uc744 \uc904 \uc218 \uc788\ub2e4\uace0 \ud574\uc694.</p>\n</details>\n<details class=\"faq-item\">\n  <summary>\uc544\uc774\ub4e4\ub3c4 \uc12d\ucde8\ud560 \uc218 \uc788\ub098\uc694?</summary>\n  <p>\uc774 \uc81c\ud488\uc740 \uc131\uc778\uc6a9\uc73c\ub85c \ub098\uc628 \uac74\uac15\uae30\ub2a5\uc2dd\ud488\uc785\ub2c8\ub2e4. \uc5b4\ub9b0\uc774 \uc12d\ucde8\uc5d0 \ub300\ud574\uc11c\ub294 \uc804\ubb38\uac00\uc640 \uc0c1\ub2f4 \ud6c4 \uacb0\uc815\ud558\uc2dc\ub294 \uac83\uc774 \uc88b\uc2b5\ub2c8\ub2e4.</p>\n</details></section>\n  </div>\n  <div class=\"float-bar\">\n    <a href=\"https://link.coupang.com/re/AFFSDP?lptag=AF4771282&amp;pageKey=8205021216&amp;itemId=23532442760&amp;vendorItemId=90788386304&amp;traceid=V0-153-70746f682c296f69&amp;requestid=20260623181428377231172883&amp;token=31850C%7CMIXED\" target=\"_blank\" rel=\"noopener noreferrer sponsored\">\ucfe0\ud321\uc5d0\uc11c \uad6c\ub9e4\ud558\uae30</a>\n  </div>\n</div>";
 
 export default function Page() {
   return (